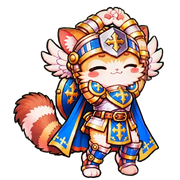
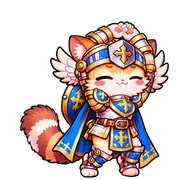
Good morning: go back to the first version (2 s stretch loop)
Claude-Session: https://claude.ai/code/session_01CqN5TM8CtnKZx6KMXb1z93

diff --git a/line-stickers/animated-emoji/06-good-morning/make_good_morning.py b/line-stickers/animated-emoji/06-good-morning/make_good_morning.py
@@ -1,15 +1,17 @@
-"""Good morning emoji: paws together on top of the head, wings open, gentle happy sway.
-Uses only video frames 8-13: elsewhere Kling's arms come forward over the face or stretch into long hoops.
-Ping-pong loop (8 -> 13 -> 8). 1 s loop x 4."""
+"""Good morning emoji: stretch on tiptoes with paws on top of the head, wings opening, then relax and stretch again.
+Uses only video frames 1-22: after that Kling stretches the arms into long hoops, which looked wrong.
+Ping-pong loop (22 -> 1 -> 22), starts on the stretch. 2 s loop x 2."""
 import sys, os
 from PIL import Image
 SRC, OUT = sys.argv[1], sys.argv[2]            # folder of green-removed video frames (NNN.png), output folder
-W, LOOP_MS = 540, 1000                          # working canvas (3x of 180), one loop
-A, B = 8, 13                                    # sway ends
-SEQ = list(range(A, B + 1)) + list(range(B - 1, A, -1))
-durs = [80] * len(SEQ)
-durs[SEQ.index(B)] = 160
-durs[0] += LOOP_MS - sum(durs)                  # hold at the start
+W, LOOP_MS = 540, 2000                          # working canvas (3x of 180), one loop
+TOP, BOTTOM = 22, 1                             # stretched (wings open) / relaxed lean
+DOWN = [22, 20, 18, 16, 14, 12, 10, 8, 5, 3]
+UP = [1, 3, 5, 8, 10, 12, 14, 16, 18, 20]
+SEQ = DOWN + UP
+durs = [72] * len(SEQ)
+durs[SEQ.index(BOTTOM)] = 300
+durs[0] += LOOP_MS - sum(durs)                  # hold the stretch
 
 src = {i: Image.open(f"{SRC}/{i:03d}.png") for i in set(SEQ)}
 bbs = [src[i].getbbox() for i in src]
@@ -37,6 +39,6 @@ os.makedirs(f"{OUT}/frames", exist_ok=True)
 f180 = [o.convert('RGBa').resize((180, 180), Image.LANCZOS).convert('RGBA') for o in out]
 for i, f in enumerate(f180): f.save(f"{OUT}/frames/{i+1:02d}.png")
 print('frames', SEQ, durs)
-save(f180, f"{OUT}/good-morning.png", durs, 4)                # 1 s x 4 = 4 s
+save(f180, f"{OUT}/good-morning.png", durs, 2)                # 2 s x 2 = 4 s
 save([o.convert('RGBa').resize((360, 360), Image.LANCZOS).convert('RGBA') for o in out],
      f"{OUT}/preview-good-morning.png", durs, 0)
